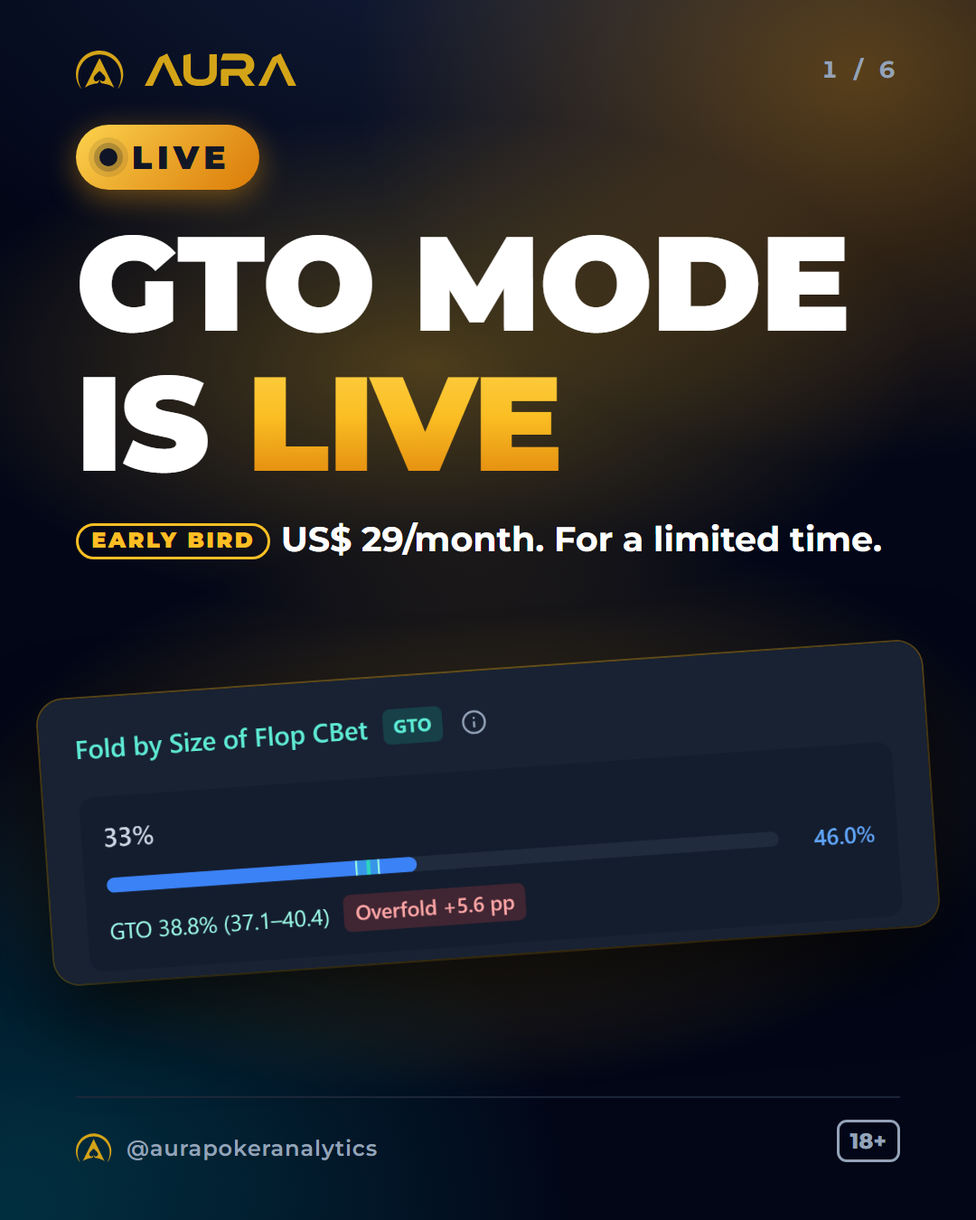
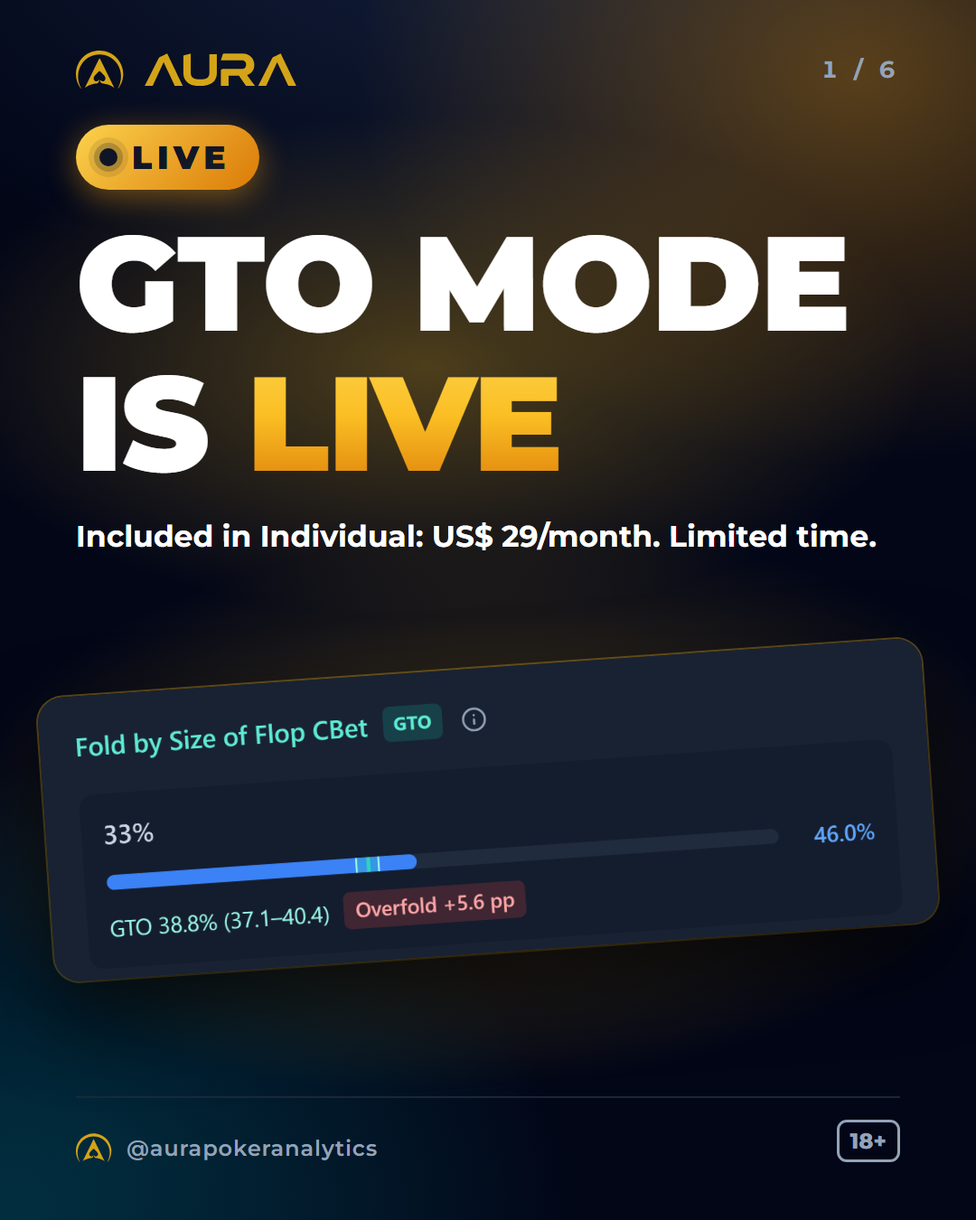
feat(modo-gto): carrossel de lancamento sem early bird (incluso no Individual por tempo limitado)

diff --git a/content/posts/modo-gto-launch/instagram/src/story-capa-pt.html b/content/posts/modo-gto-launch/instagram/src/story-capa-pt.html
@@ -5,7 +5,7 @@
 .blk { display: flex; flex-direction: column; }
 .sub { margin-top: 24px; font-size: 52px; }
 .sticker { margin-top: 30px; height: 120px; }
-.pillrow { margin-top: 44px; }
+.pillrow { margin-top: 44px; display: flex; align-items: center; gap: 22px; }
 .titlewrap { position: relative; }
 .titlewrap::before { content: ""; position: absolute; left: -140px; top: -90px; width: 1000px; height: 520px; z-index: -1;
   background: radial-gradient(closest-side, rgba(251,191,36,.26), transparent); }
@@ -16,8 +16,8 @@
 
 <div class="blk z"><header><div class="lockup"><span class="icon" data-icon></span><span class="wm" data-wordmark></span></div></header></div>
 <div class="pillrow z"><span class="live"><i class="dot"></i>NO AR</span></div>
-<div class="z titlewrap" style="margin-top:30px"><h1 class="title">Modo GTO<br><em>no ar</em></h1><p class="sub fit "><span class="seal">EARLY BIRD</span>R$ 150/mês. Por tempo limitado.</p></div>
-<div class="mid z" style="margin-top:44px;display:flex;justify-content:center"><svg class="chart" width="912" height="602" viewBox="0 0 912 602" xmlns="http://www.w3.org/2000/svg" font-family="Montserrat, Segoe UI, sans-serif"><defs><linearGradient id="fb" x1="0" y1="0" x2="0" y2="1"><stop offset="0" stop-color="#0E8AA3"/><stop offset="1" stop-color="#015A6B"/></linearGradient><filter id="glow" x="-30%" y="-30%" width="160%" height="160%"><feGaussianBlur stdDeviation="7"/></filter></defs><text x="0" y="34" font-size="30" font-weight="700" letter-spacing="2" fill="#A9B6C8">FOLD VS C-BET</text><text x="175" y="192" text-anchor="middle" font-size="32" font-weight="800" letter-spacing="6" fill="#CBD5E1">FIELD</text><text x="737" y="192" text-anchor="middle" font-size="32" font-weight="800" letter-spacing="6" fill="#CBD5E1">GTO</text><path d="M40,512.0 L40,254.0 Q40,236.0 58,236.0 L292,236.0 Q310,236.0 310,254.0 L310,512.0 Z" fill="url(#fb)" stroke="rgba(103,232,249,.4)" stroke-width="2.5"/><path d="M602,512.0 L602,297.20000000000005 Q602,279.20000000000005 620,279.20000000000005 L854,279.20000000000005 Q872,279.20000000000005 872,297.20000000000005 L872,512.0 Z" fill="rgba(1,90,107,.55)" stroke="#5EC9DB" stroke-width="3.5"/><rect x="576" y="269.6" width="322" height="19.8" rx="8" fill="rgba(203,213,225,.20)" stroke="rgba(226,232,240,.85)" stroke-width="2.5" stroke-dasharray="11 8"/><g filter="url(#glow)" opacity=".85"><line x1="456" y1="236.0" x2="456" y2="269.6" stroke="#FBBF24" stroke-width="14"/></g><line x1="316" y1="236.0" x2="898" y2="236.0" stroke="#FBBF24" stroke-width="6" stroke-dasharray="14 9"/><line x1="316" y1="269.6" x2="572" y2="269.6" stroke="#FBBF24" stroke-width="6" stroke-dasharray="14 9"/><line x1="456" y1="236.0" x2="456" y2="269.6" stroke="#FBBF24" stroke-width="8" stroke-linecap="butt"/><polygon points="446.11764705882354,250.8 465.88235294117646,250.8 456,236.0" fill="#FBBF24"/><polygon points="446.11764705882354,254.8 465.88235294117646,254.8 456,269.6" fill="#FBBF24"/><text x="175" y="142" text-anchor="middle" font-size="100" font-weight="900" fill="#fff">46,0%</text><text x="737" y="142" text-anchor="middle" font-size="100" font-weight="900" fill="#fff">38,8%</text><line x1="0" y1="512" x2="912" y2="512" stroke="#475569" stroke-width="3"/><rect x="40" y="548" width="44" height="26" rx="5" fill="rgba(203,213,225,.38)" stroke="rgba(226,232,240,.95)" stroke-width="2.5" stroke-dasharray="7 5"/><text x="98" y="569" font-size="28" font-weight="600" fill="#CBD5E1">Faixa GTO 37,1–40,4%</text><line x1="562" y1="561" x2="606" y2="561" stroke="#FBBF24" stroke-width="6"/><text x="620" y="569" font-size="28" font-weight="600" fill="#CBD5E1">Gap até a faixa</text></svg></div>
+<div class="z titlewrap" style="margin-top:30px"><h1 class="title">Modo GTO<br><em>no ar</em></h1><p class="sub fit ">Incluso no plano Individual: R$ 150/mês. Por tempo limitado.</p></div>
+<div class="mid z" style="margin-top:44px;display:flex;justify-content:center"><svg class="chart" width="912" height="602" viewBox="0 0 912 602" xmlns="http://www.w3.org/2000/svg" font-family="Montserrat, Segoe UI, sans-serif"><defs><linearGradient id="fb" x1="0" y1="0" x2="0" y2="1"><stop offset="0" stop-color="#0E8AA3"/><stop offset="1" stop-color="#015A6B"/></linearGradient><filter id="glow" x="-30%" y="-30%" width="160%" height="160%"><feGaussianBlur stdDeviation="7"/></filter></defs><text x="0" y="68" font-size="26" font-weight="600" fill="#94A3B8">CO × BB · exemplo</text><text x="0" y="34" font-size="30" font-weight="700" letter-spacing="2" fill="#A9B6C8">FOLD VS C-BET</text><text x="175" y="222" text-anchor="middle" font-size="32" font-weight="800" letter-spacing="6" fill="#CBD5E1">FIELD</text><text x="737" y="222" text-anchor="middle" font-size="32" font-weight="800" letter-spacing="6" fill="#CBD5E1">GTO</text><path d="M40,512.0 L40,281.6 Q40,263.6 58,263.6 L292,263.6 Q310,263.6 310,281.6 L310,512.0 Z" fill="url(#fb)" stroke="rgba(103,232,249,.4)" stroke-width="2.5"/><path d="M602,512.0 L602,320.48 Q602,302.48 620,302.48 L854,302.48 Q872,302.48 872,320.48 L872,512.0 Z" fill="rgba(1,90,107,.55)" stroke="#5EC9DB" stroke-width="3.5"/><rect x="576" y="293.8" width="322" height="17.8" rx="8" fill="rgba(203,213,225,.20)" stroke="rgba(226,232,240,.85)" stroke-width="2.5" stroke-dasharray="11 8"/><g filter="url(#glow)" opacity=".85"><line x1="456" y1="263.6" x2="456" y2="293.8" stroke="#FBBF24" stroke-width="14"/></g><line x1="316" y1="263.6" x2="898" y2="263.6" stroke="#FBBF24" stroke-width="6" stroke-dasharray="14 9"/><line x1="316" y1="293.8" x2="572" y2="293.8" stroke="#FBBF24" stroke-width="6" stroke-dasharray="14 9"/><line x1="456" y1="263.6" x2="456" y2="293.8" stroke="#FBBF24" stroke-width="8" stroke-linecap="butt"/><polygon points="447.1058823529412,276.9 464.8941176470588,276.9 456,263.6" fill="#FBBF24"/><polygon points="447.1058823529412,280.5 464.8941176470588,280.5 456,293.8" fill="#FBBF24"/><text x="175" y="172" text-anchor="middle" font-size="100" font-weight="900" fill="#fff">46,0%</text><text x="737" y="172" text-anchor="middle" font-size="100" font-weight="900" fill="#fff">38,8%</text><line x1="0" y1="512" x2="912" y2="512" stroke="#475569" stroke-width="3"/><rect x="40" y="548" width="44" height="26" rx="5" fill="rgba(203,213,225,.38)" stroke="rgba(226,232,240,.95)" stroke-width="2.5" stroke-dasharray="7 5"/><text x="98" y="569" font-size="28" font-weight="600" fill="#CBD5E1">Faixa GTO 37,1–40,4%</text><line x1="562" y1="561" x2="606" y2="561" stroke="#FBBF24" stroke-width="6"/><text x="620" y="569" font-size="28" font-weight="600" fill="#CBD5E1">Gap até a faixa</text></svg></div>
 <div class="sticker z"></div>
 <footer><div class="handle"><span class="icon" data-icon></span><span>@aurapokeranalytics</span></div><span class="age">18+</span></footer>
 </div><script src="common.js"></script></body></html>

diff --git a/content/posts/modo-gto-launch/instagram/src/carrossel-en-05.html b/content/posts/modo-gto-launch/instagram/src/carrossel-en-05.html
@@ -3,13 +3,13 @@
 <link rel="stylesheet" href="base.css"><style>.page { padding-top: 64px; }
 .mid { flex: 1; display:flex; flex-direction:column; align-items:center; justify-content:center; text-align:center; position: relative; }
 .rings { position: absolute; left: 50%; top: 40%; width: 1100px; height: 760px; transform: translate(-50%, -50%); z-index: 0; background: radial-gradient(closest-side, rgba(251,191,36,.30), rgba(251,191,36,.08) 55%, transparent); }
-.seal.big { font-size: 40px; padding: .22em .8em; margin: 0; z-index: 2; position: relative; }
-.title { position: relative; z-index: 2; margin-top: 18px; line-height: .9; display: flex; align-items: flex-start; justify-content: center; gap: 18px; }
+.lead { position: relative; z-index: 2; font-size: 78px; font-weight: 900; letter-spacing: .02em; text-transform: uppercase; color: #fff; }
+.lead em { font-style: normal; color: #FBBF24; }
+.title { position: relative; z-index: 2; margin-top: 6px; line-height: .9; display: flex; align-items: flex-start; justify-content: center; gap: 18px; }
 .title .cur { font-size: 100px; font-weight: 900; margin-top: 44px; color: #fff; }
 .title .num { font-size: 400px; font-weight: 900; line-height: .86; background: linear-gradient(180deg,#FCD34D 0%,#FBBF24 45%,#D97706 100%); -webkit-background-clip: text; background-clip: text; color: transparent; filter: drop-shadow(0 12px 40px rgba(245,158,11,.35)); }
 .per { position: relative; z-index: 2; font-size: 74px; font-weight: 800; color: #fff; margin-top: 4px; letter-spacing: .02em; }
-.lim { position: relative; z-index: 2; margin-top: 26px; font-size: 26px; font-weight: 800; letter-spacing: .24em; color: var(--ink-mute); border: 2px solid rgba(148,163,184,.55); border-radius: 999px; padding: 10px 26px; }
-.sub { position: relative; z-index: 2; margin-top: 30px; font-size: 40px; width: 912px; color: var(--ink-soft); }
+.sub { position: relative; z-index: 2; margin-top: 40px; font-size: 40px; width: 912px; color: var(--ink-soft); }
 </style></head>
 <body><div class="page h1350 drama">
 
@@ -17,10 +17,9 @@
 
 <header><div class="lockup"><span class="icon" data-icon></span><span class="wm" data-wordmark></span></div><span class="indicator">5 / 6</span></header>
 <div class="mid z"><div class="rings"></div>
-<span class="seal big">EARLY BIRD</span>
+<div class="lead">Included in Individual</div>
 <h1 class="title"><span class="cur">US$</span><span class="num">29</span></h1>
 <div class="per">/month</div>
-<div class="lim">LIMITED TIME</div>
-<p class="sub fit ">Part of the Individual plan, for a limited time.</p></div>
+<p class="sub fit ">For a limited time.</p></div>
 <footer><div class="handle"><span class="icon" data-icon></span><span>@aurapokeranalytics</span></div><span class="age">18+</span></footer>
 </div><script src="common.js"></script></body></html>

diff --git a/content/posts/modo-gto-launch/email-pt.html b/content/posts/modo-gto-launch/email-pt.html
@@ -10,7 +10,7 @@
   <title>Modo GTO no ar</title>
 </head>
 <body style="margin:0; padding:0; width:100%; background-color:#070a12; -webkit-text-size-adjust:100%; -ms-text-size-adjust:100%;">
-  <div style="display:none; max-height:0; overflow:hidden; mso-hide:all; font-size:1px; line-height:1px; color:#070a12; opacity:0;">Early bird de R$ 150/mês, por tempo limitado. O GTO no flop, turn e river, ao lado do field.</div>
+  <div style="display:none; max-height:0; overflow:hidden; mso-hide:all; font-size:1px; line-height:1px; color:#070a12; opacity:0;">Incluso no plano Individual, por tempo limitado. O GTO no flop, turn e river, ao lado do field.</div>
   <table role="presentation" width="100%" cellpadding="0" cellspacing="0" border="0" style="background-color:#070a12;">
     <tr>
       <td align="center" style="padding:24px 12px;">
@@ -50,7 +50,7 @@
                   <a href="https://www.aurapoker.com/?utm_source=email&utm_medium=email&utm_campaign=modo-gto-launch&utm_content=pt" style="display:inline-block; padding-top:14px; padding-bottom:14px; padding-left:34px; padding-right:34px; font-family:Arial,Helvetica,sans-serif; font-size:16px; font-weight:bold; color:#0b1220; text-decoration:none; border-radius:10px;">Conhecer o Modo GTO</a>
                 </td>
               </tr></table>
-              <p style="margin:12px 0 0 0; font-family:Arial,Helvetica,sans-serif; font-size:13px; line-height:1.5; color:#9aa7ba;">Early bird de R$ 150/mês, por tempo limitado: o Modo GTO faz parte do plano Individual. A conta grátis segue com o field e a comparação com o MDF. Poker é jogo de habilidade e estudo. 18+.</p>
+              <p style="margin:12px 0 0 0; font-family:Arial,Helvetica,sans-serif; font-size:13px; line-height:1.5; color:#9aa7ba;">O Modo GTO está incluso no plano Individual (R$ 150/mês) por tempo limitado. A conta grátis segue com o field e a comparação com o MDF. Poker é jogo de habilidade e estudo. 18+.</p>
             </td>
           </tr>
           <tr>

diff --git a/content/posts/modo-gto-launch/email-pt.preview.html b/content/posts/modo-gto-launch/email-pt.preview.html
@@ -10,7 +10,7 @@
   <title>Modo GTO no ar</title>
 </head>
 <body style="margin:0; padding:0; width:100%; background-color:#070a12; -webkit-text-size-adjust:100%; -ms-text-size-adjust:100%;">
-  <div style="display:none; max-height:0; overflow:hidden; mso-hide:all; font-size:1px; line-height:1px; color:#070a12; opacity:0;">Early bird de R$ 150/mês, por tempo limitado. O GTO no flop, turn e river, ao lado do field.</div>
+  <div style="display:none; max-height:0; overflow:hidden; mso-hide:all; font-size:1px; line-height:1px; color:#070a12; opacity:0;">Incluso no plano Individual, por tempo limitado. O GTO no flop, turn e river, ao lado do field.</div>
   <table role="presentation" width="100%" cellpadding="0" cellspacing="0" border="0" style="background-color:#070a12;">
     <tr>
       <td align="center" style="padding:24px 12px;">
@@ -50,7 +50,7 @@
                   <a href="https://www.aurapoker.com/?utm_source=email&utm_medium=email&utm_campaign=modo-gto-launch&utm_content=pt" style="display:inline-block; padding-top:14px; padding-bottom:14px; padding-left:34px; padding-right:34px; font-family:Arial,Helvetica,sans-serif; font-size:16px; font-weight:bold; color:#0b1220; text-decoration:none; border-radius:10px;">Conhecer o Modo GTO</a>
                 </td>
               </tr></table>
-              <p style="margin:12px 0 0 0; font-family:Arial,Helvetica,sans-serif; font-size:13px; line-height:1.5; color:#9aa7ba;">Early bird de R$ 150/mês, por tempo limitado: o Modo GTO faz parte do plano Individual. A conta grátis segue com o field e a comparação com o MDF. Poker é jogo de habilidade e estudo. 18+.</p>
+              <p style="margin:12px 0 0 0; font-family:Arial,Helvetica,sans-serif; font-size:13px; line-height:1.5; color:#9aa7ba;">O Modo GTO está incluso no plano Individual (R$ 150/mês) por tempo limitado. A conta grátis segue com o field e a comparação com o MDF. Poker é jogo de habilidade e estudo. 18+.</p>
             </td>
           </tr>
           <tr>

diff --git a/content/posts/modo-gto-launch/email-en.html b/content/posts/modo-gto-launch/email-en.html
@@ -10,7 +10,7 @@
   <title>GTO Mode is live</title>
 </head>
 <body style="margin:0; padding:0; width:100%; background-color:#070a12; -webkit-text-size-adjust:100%; -ms-text-size-adjust:100%;">
-  <div style="display:none; max-height:0; overflow:hidden; mso-hide:all; font-size:1px; line-height:1px; color:#070a12; opacity:0;">Early bird US$ 29/month, for a limited time. GTO on the flop, turn and river, next to the field.</div>
+  <div style="display:none; max-height:0; overflow:hidden; mso-hide:all; font-size:1px; line-height:1px; color:#070a12; opacity:0;">Included in the Individual plan, for a limited time. GTO on the flop, turn and river, next to the field.</div>
   <table role="presentation" width="100%" cellpadding="0" cellspacing="0" border="0" style="background-color:#070a12;">
     <tr>
       <td align="center" style="padding:24px 12px;">
@@ -50,7 +50,7 @@
                   <a href="https://www.aurapoker.com/?utm_source=email&utm_medium=email&utm_campaign=modo-gto-launch&utm_content=en" style="display:inline-block; padding-top:14px; padding-bottom:14px; padding-left:34px; padding-right:34px; font-family:Arial,Helvetica,sans-serif; font-size:16px; font-weight:bold; color:#0b1220; text-decoration:none; border-radius:10px;">See GTO Mode</a>
                 </td>
               </tr></table>
-              <p style="margin:12px 0 0 0; font-family:Arial,Helvetica,sans-serif; font-size:13px; line-height:1.5; color:#9aa7ba;">Early bird US$ 29/month, for a limited time: GTO Mode is part of the Individual plan. The free account keeps the field and the MDF comparison. Poker is a game of skill and study. 18+.</p>
+              <p style="margin:12px 0 0 0; font-family:Arial,Helvetica,sans-serif; font-size:13px; line-height:1.5; color:#9aa7ba;">GTO Mode is included in the Individual plan (US$ 29/month) for a limited time. The free account keeps the field and the MDF comparison. Poker is a game of skill and study. 18+.</p>
             </td>
           </tr>
           <tr>

diff --git a/content/posts/modo-gto-launch/email-en.preview.html b/content/posts/modo-gto-launch/email-en.preview.html
@@ -10,7 +10,7 @@
   <title>GTO Mode is live</title>
 </head>
 <body style="margin:0; padding:0; width:100%; background-color:#070a12; -webkit-text-size-adjust:100%; -ms-text-size-adjust:100%;">
-  <div style="display:none; max-height:0; overflow:hidden; mso-hide:all; font-size:1px; line-height:1px; color:#070a12; opacity:0;">Early bird US$ 29/month, for a limited time. GTO on the flop, turn and river, next to the field.</div>
+  <div style="display:none; max-height:0; overflow:hidden; mso-hide:all; font-size:1px; line-height:1px; color:#070a12; opacity:0;">Included in the Individual plan, for a limited time. GTO on the flop, turn and river, next to the field.</div>
   <table role="presentation" width="100%" cellpadding="0" cellspacing="0" border="0" style="background-color:#070a12;">
     <tr>
       <td align="center" style="padding:24px 12px;">
@@ -50,7 +50,7 @@
                   <a href="https://www.aurapoker.com/?utm_source=email&utm_medium=email&utm_campaign=modo-gto-launch&utm_content=en" style="display:inline-block; padding-top:14px; padding-bottom:14px; padding-left:34px; padding-right:34px; font-family:Arial,Helvetica,sans-serif; font-size:16px; font-weight:bold; color:#0b1220; text-decoration:none; border-radius:10px;">See GTO Mode</a>
                 </td>
               </tr></table>
-              <p style="margin:12px 0 0 0; font-family:Arial,Helvetica,sans-serif; font-size:13px; line-height:1.5; color:#9aa7ba;">Early bird US$ 29/month, for a limited time: GTO Mode is part of the Individual plan. The free account keeps the field and the MDF comparison. Poker is a game of skill and study. 18+.</p>
+              <p style="margin:12px 0 0 0; font-family:Arial,Helvetica,sans-serif; font-size:13px; line-height:1.5; color:#9aa7ba;">GTO Mode is included in the Individual plan (US$ 29/month) for a limited time. The free account keeps the field and the MDF comparison. Poker is a game of skill and study. 18+.</p>
             </td>
           </tr>
           <tr>

diff --git a/content/posts/modo-gto-launch/instagram/src/carrossel-en-01.html b/content/posts/modo-gto-launch/instagram/src/carrossel-en-01.html
@@ -2,7 +2,7 @@
 <html lang="en"><head><meta charset="UTF-8"><title>Aura Modo GTO</title>
 <link rel="stylesheet" href="base.css"><style>.title { font-size: 148px; line-height: 1.05; }
 .page { padding-top: 56px; }
-.pillrow { margin-top: 40px; }
+.pillrow { margin-top: 40px; display: flex; align-items: center; gap: 22px; }
 .titlewrap { position: relative; margin-top: 26px; }
 .titlewrap::before { content: ""; position: absolute; left: -160px; top: -110px; width: 1100px; height: 560px; z-index: -1;
   background: radial-gradient(closest-side, rgba(251,191,36,.30), transparent); }
@@ -16,7 +16,7 @@
 
 <header><div class="lockup"><span class="icon" data-icon></span><span class="wm" data-wordmark></span></div><span class="indicator">1 / 6</span></header>
 <div class="pillrow z"><span class="live"><i class="dot"></i>LIVE</span></div>
-<div class="z titlewrap"><h1 class="title">GTO Mode<br>is <em>live</em></h1><p class="sub fit "><span class="seal">EARLY BIRD</span>US$ 29/month. For a limited time.</p></div>
+<div class="z titlewrap"><h1 class="title">GTO Mode<br>is <em>live</em></h1><p class="sub fit ">Included in Individual: US$ 29/month. Limited time.</p></div>
 <div class="fc z"><div class="fcard" style="transform: rotate(-4deg)"><div class="fglow"></div><img src="assets/prod-postflop-en.png"></div></div>
 <footer><div class="handle"><span class="icon" data-icon></span><span>@aurapokeranalytics</span></div><span class="age">18+</span></footer>
 </div><script src="common.js"></script></body></html>

diff --git a/content/posts/modo-gto-launch/instagram/src/carrossel-en-04.html b/content/posts/modo-gto-launch/instagram/src/carrossel-en-04.html
@@ -14,7 +14,7 @@
 <div class="vignette"></div>
 
 <header><div class="lockup"><span class="icon" data-icon></span><span class="wm" data-wordmark></span></div><span class="indicator">4 / 6</span></header>
-<div class="grp z"><div><h1 class="title">Preflop:<br><em>GTO and deviation</em></h1><p class="sub fit fit">CO RFI: the field opens less than GTO.</p></div>
+<div class="grp z"><div><h1 class="title">Preflop:<br><em>GTO and deviation</em></h1><p class="sub fit fit">CO RFI at 40bb: the field opens less than GTO.</p></div>
 <div class="cap"><div class="glow"></div><div class="shot slotimg"><img src="assets/prod-preflop-en.png"></div></div></div>
 <footer><div class="handle"><span class="icon" data-icon></span><span>@aurapokeranalytics</span></div><span class="age">18+</span></footer>
 </div><script src="common.js"></script></body></html>

diff --git a/content/posts/modo-gto-launch/instagram/src/base.css b/content/posts/modo-gto-launch/instagram/src/base.css
@@ -129,3 +129,4 @@ small { font-size: 0.72em; font-weight: 600; color: var(--ink-soft); white-space
 .fcard { position: relative; width: 980px; }
 .fcard img { position: relative; display: block; width: 980px; height: auto; border-radius: 28px; box-shadow: 0 40px 90px rgba(0,0,0,.7), 0 0 0 2px rgba(251,191,36,.35); }
 .fcard .fglow { position: absolute; left: 50%; top: 50%; width: 1200px; height: 620px; transform: translate(-50%, -50%); background: radial-gradient(closest-side, rgba(251,191,36,.30), transparent); }
+.pillrow .seal.big { font-size: 34px; padding: 14px 30px; margin: 0; vertical-align: baseline; background: transparent; color: #FBBF24; border: 3px solid #FBBF24; }

diff --git a/content/posts/modo-gto-launch/instagram/src/story-en.html b/content/posts/modo-gto-launch/instagram/src/story-en.html
@@ -5,7 +5,7 @@
 .blk { display: flex; flex-direction: column; }
 .sub { margin-top: 24px; font-size: 52px; }
 .sticker { margin-top: 30px; height: 120px; }
-.pillrow { margin-top: 44px; }
+.pillrow { margin-top: 44px; display: flex; align-items: center; gap: 22px; }
 .titlewrap { position: relative; }
 .titlewrap::before { content: ""; position: absolute; left: -140px; top: -90px; width: 1000px; height: 520px; z-index: -1;
   background: radial-gradient(closest-side, rgba(251,191,36,.26), transparent); }

diff --git a/content/posts/modo-gto-launch/instagram/src/story-pt.html b/content/posts/modo-gto-launch/instagram/src/story-pt.html
@@ -5,7 +5,7 @@
 .blk { display: flex; flex-direction: column; }
 .sub { margin-top: 24px; font-size: 52px; }
 .sticker { margin-top: 30px; height: 120px; }
-.pillrow { margin-top: 44px; }
+.pillrow { margin-top: 44px; display: flex; align-items: center; gap: 22px; }
 .titlewrap { position: relative; }
 .titlewrap::before { content: ""; position: absolute; left: -140px; top: -90px; width: 1000px; height: 520px; z-index: -1;
   background: radial-gradient(closest-side, rgba(251,191,36,.26), transparent); }

diff --git a/content/posts/modo-gto-launch/instagram/src/build.py b/content/posts/modo-gto-launch/instagram/src/build.py
@@ -36,8 +36,8 @@ ART = {
     "feed-en": dict(lang="en", size=(1080, 1350), kind="feed", t="Same spot,<br><em>two numbers</em>", s="{N1}", ts=92),
     "story-pt": dict(lang="pt", size=(1080, 1920), kind="story", t="O field folda<br><em>mais que o GTO?</em>", s="{N1}", ts=80),
     "story-en": dict(lang="en", size=(1080, 1920), kind="story", t="Does the field<br>fold <em>more<br>than GTO?</em>", s="{N1}", ts=88),
-    # capa do story (lancamento, 15/10): selo NO AR, early bird em R$, sem micro-legenda do spot
-    "story-capa-pt": dict(lang="pt", size=(1080, 1920), kind="story", t="Modo GTO<br><em>no ar</em>", s="{t:c1_apoio_pt}", ts=120, cover=True, live="NO AR"),
+    # capa do story (lancamento, 15/10): selo NO AR, preco em R$, sem micro-legenda do spot
+    "story-capa-pt": dict(lang="pt", size=(1080, 1920), kind="story", t="Modo GTO<br><em>no ar</em>", s="{t:story_apoio_pt}", ts=120, cover=True, live="NO AR", caption_key="story_grafico_pt"),
     # carrossel EN, 6 slides
     "carrossel-en-01": dict(lang="en", size=(1080, 1350), kind="cover", t="GTO Mode<br>is <em>live</em>", s="{t:c1_apoio_en}", ts=148),
     "carrossel-en-02": dict(lang="en", size=(1080, 1350), kind="c2", t="See where the<br>field breaks<br><em>from GTO</em>", s="{N1}", ts=84),
@@ -72,7 +72,7 @@ def needs(name, n):
     if k == "c4":
         return m + n5_missing(n) + ([] if find_print("preflop-en") else ["print:preflop-en"])
     if k == "price":
-        return m + ([] if lib.has_text(txt.get("c5_titulo_en")) else ["c5_titulo_en"])
+        return m + [k_ for k_ in ("c5_titulo_en", "c5_numero_en") if not lib.has_text(txt.get(k_))]
     return m
 
 
@@ -185,11 +185,6 @@ def stack(names, big=False):
     return '<div class="stack">' + "".join(parts) + "</div>"
 
 
-def sealify(txt):
-    """'Early bird: ...' -> selo EARLY BIRD (pilula) + resto da frase: a leitura e a mesma, com destaque de lancamento."""
-    return re.sub(r"^Early bird:\s*", '<span class="seal">EARLY BIRD</span>', txt)
-
-
 def sub(a, n, cls=""):
     """Linha de apoio (ou vazio). {N1} -> spot; {c4} -> texto fixo do slide 4 (numbers.json)."""
     s = a["s"]
@@ -203,7 +198,7 @@ def sub(a, n, cls=""):
     if s.startswith("{t:"):
         key = s[3:-1]
         txt = (n.get("textos_com_numero") or {}).get(key)
-        return f'<p class="sub fit {cls}">{sealify(txt) if lib.has_text(txt) else ph(key)}</p>'
+        return f'<p class="sub fit {cls}">{txt if lib.has_text(txt) else ph(key)}</p>'
     return f'<p class="sub {cls}">{s}</p>'
 
 
@@ -256,12 +251,13 @@ def render_html(name, n, miss, test=False):
 .blk { display: flex; flex-direction: column; }
 .sub { margin-top: 24px; font-size: 52px; }
 .sticker { margin-top: 30px; height: 120px; }
-.pillrow { margin-top: 44px; }
+.pillrow { margin-top: 44px; display: flex; align-items: center; gap: 22px; }
 .titlewrap { position: relative; }
 .titlewrap::before { content: ""; position: absolute; left: -140px; top: -90px; width: 1000px; height: 520px; z-index: -1;
   background: radial-gradient(closest-side, rgba(251,191,36,.26), transparent); }
 """
-        svg, _ = chart_svg(lang, n, ph_h=ph_story, emphasize=bool(cover))
+        capt = txt.get(a["caption_key"]) if cover else None
+        svg, _ = chart_svg(lang, n, ph_h=ph_story - (30 if capt else 0), emphasize=bool(cover), caption=capt)
         stick = ('<div class="sticker z">' + ('<div class="stickph">[STICKER DE LINK · Conhecer o Modo GTO / See GTO Mode]</div>' if tag else "") + "</div>")
         pill = f'<div class="pillrow z">{live_pill(a["live"])}</div>' if cover else ""
         inner = f"""<div class="blk z">{lockup()}</div>
@@ -274,7 +270,7 @@ def render_html(name, n, miss, test=False):
 
     if k == "cover":
         css = base_css + """.page { padding-top: 56px; }
-.pillrow { margin-top: 40px; }
+.pillrow { margin-top: 40px; display: flex; align-items: center; gap: 22px; }
 .titlewrap { position: relative; margin-top: 26px; }
 .titlewrap::before { content: ""; position: absolute; left: -160px; top: -110px; width: 1100px; height: 560px; z-index: -1;
   background: radial-gradient(closest-side, rgba(251,191,36,.30), transparent); }
@@ -319,26 +315,25 @@ def render_html(name, n, miss, test=False):
         return page(lang, h, inner, css, tag=tag)
 
     if k == "price":
-        titulo = txt.get("c5_titulo_en") or ""
-        m = re.search(r"(US\$)\s*(\d+)\s*/\s*(\w+)", titulo)
-        cur, num, per = m.groups() if m else ("US$", "[[c5]]", "month")
+        lead = txt.get("c5_titulo_en") or "[[c5_titulo_en]]"
+        m = re.match(r"^\s*(US\$)\s*(\d+)\s*/\s*(\w+)", txt.get("c5_numero_en") or "")
+        cur, num, per = m.groups() if m else ("US$", "[[c5_numero_en]]", "month")
         css = """.page { padding-top: 64px; }
 .mid { flex: 1; display:flex; flex-direction:column; align-items:center; justify-content:center; text-align:center; position: relative; }
 .rings { position: absolute; left: 50%; top: 40%; width: 1100px; height: 760px; transform: translate(-50%, -50%); z-index: 0; background: radial-gradient(closest-side, rgba(251,191,36,.30), rgba(251,191,36,.08) 55%, transparent); }
-.seal.big { font-size: 40px; padding: .22em .8em; margin: 0; z-index: 2; position: relative; }
-.title { position: relative; z-index: 2; margin-top: 18px; line-height: .9; display: flex; align-items: flex-start; justify-content: center; gap: 18px; }
+.lead { position: relative; z-index: 2; font-size: 78px; font-weight: 900; letter-spacing: .02em; text-transform: uppercase; color: #fff; }
+.lead em { font-style: normal; color: #FBBF24; }
+.title { position: relative; z-index: 2; margin-top: 6px; line-height: .9; display: flex; align-items: flex-start; justify-content: center; gap: 18px; }
 .title .cur { font-size: 100px; font-weight: 900; margin-top: 44px; color: #fff; }
 .title .num { font-size: 400px; font-weight: 900; line-height: .86; background: linear-gradient(180deg,#FCD34D 0%,#FBBF24 45%,#D97706 100%); -webkit-background-clip: text; background-clip: text; color: transparent; filter: drop-shadow(0 12px 40px rgba(245,158,11,.35)); }
 .per { position: relative; z-index: 2; font-size: 74px; font-weight: 800; color: #fff; margin-top: 4px; letter-spacing: .02em; }
-.lim { position: relative; z-index: 2; margin-top: 26px; font-size: 26px; font-weight: 800; letter-spacing: .24em; color: var(--ink-mute); border: 2px solid rgba(148,163,184,.55); border-radius: 999px; padding: 10px 26px; }
-.sub { position: relative; z-index: 2; margin-top: 30px; font-size: 40px; width: 912px; color: var(--ink-soft); }
+.sub { position: relative; z-index: 2; margin-top: 40px; font-size: 40px; width: 912px; color: var(--ink-soft); }
 """
         inner = lockup(indicator(5)) + f"""
 <div class="mid z"><div class="rings"></div>
-<span class="seal big">EARLY BIRD</span>
+<div class="lead">{lead}</div>
 <h1 class="title"><span class="cur">{cur}</span><span class="num">{num}</span></h1>
 <div class="per">/{per}</div>
-<div class="lim">LIMITED TIME</div>
 {sub(a, n)}</div>
 {footer()}"""
         return page(lang, h, inner, css, tag=tag, cls="drama")
